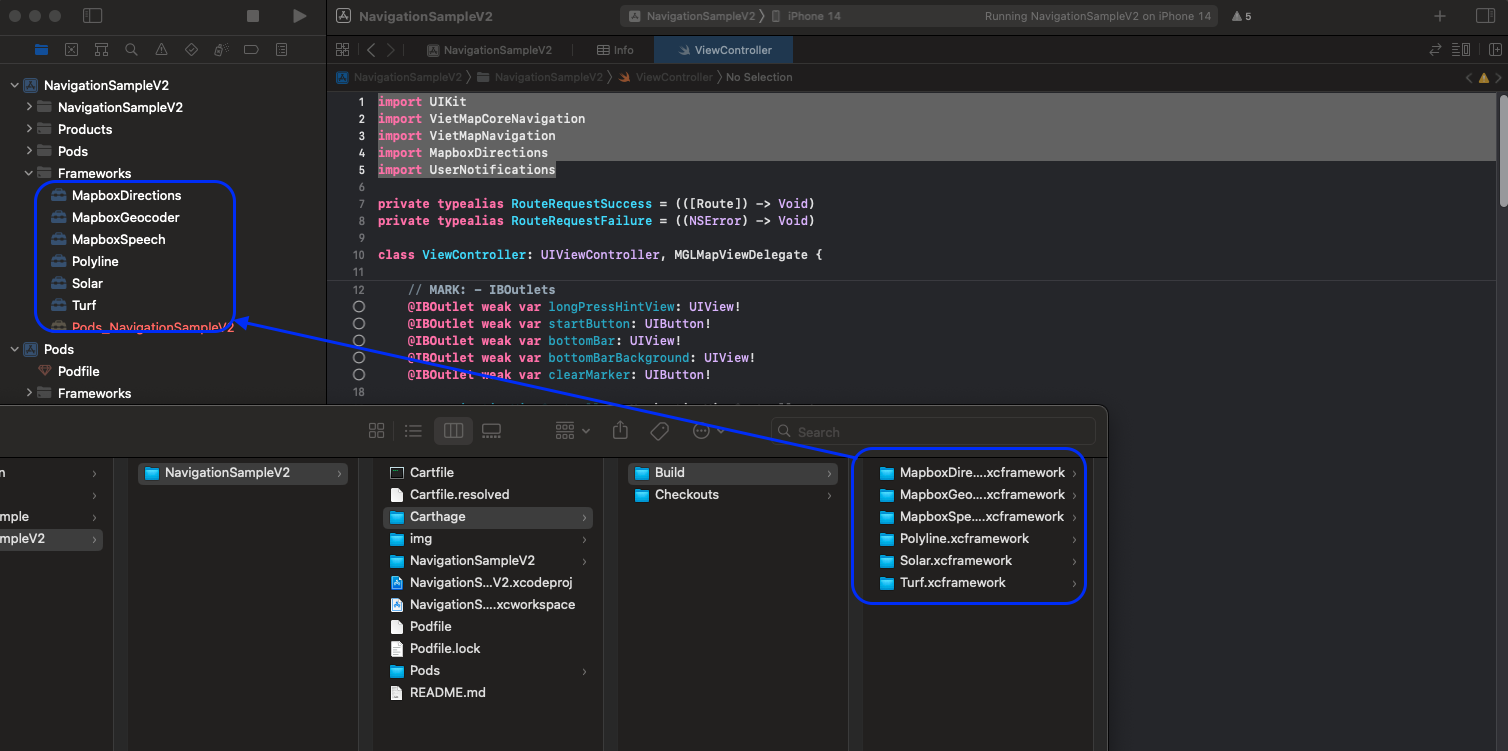
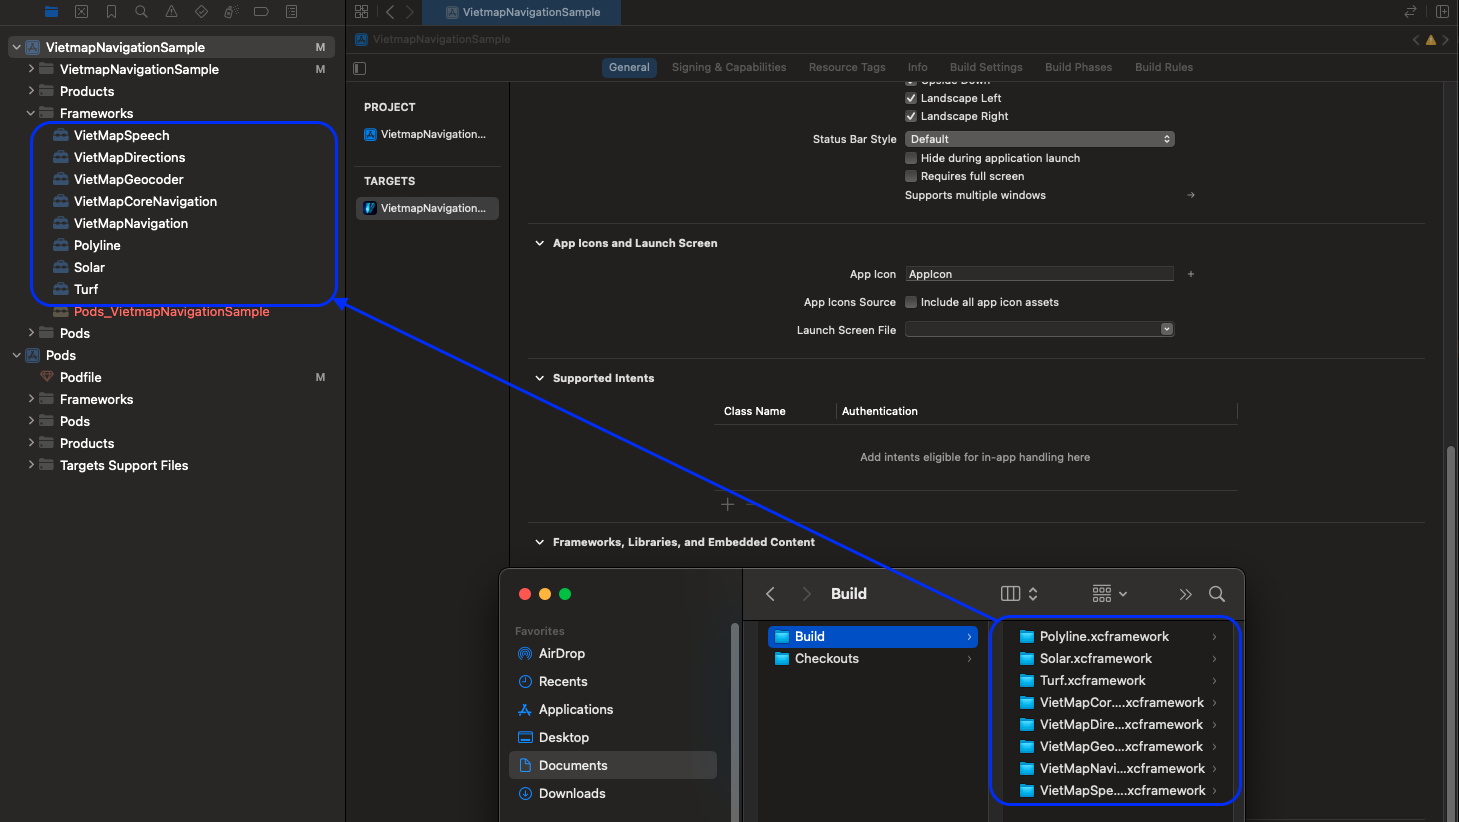
new version

diff --git a/NavigationSampleV2/ViewController.swift b/NavigationSampleV2/ViewController.swift
@@ -1,7 +1,7 @@
 import UIKit
 import VietMapCoreNavigation
 import VietMapNavigation
-import MapboxDirections
+import VietMapDirections
 import UserNotifications
 
 private typealias RouteRequestSuccess = (([Route]) -> Void)
@@ -55,6 +55,7 @@ class ViewController: UIViewController, MGLMapViewDelegate {
     // MARK: Directions Request Handlers
 
     fileprivate lazy var defaultSuccess: RouteRequestSuccess = { [weak self] (routes) in
+        print("success")
         guard let current = routes.first else { return }
         self?.clearMarker.isEnabled = true
         self?.mapView?.removeWaypoints()
@@ -124,7 +125,6 @@ class ViewController: UIViewController, MGLMapViewDelegate {
         // Note: The destination name can be modified. The value is used in the top banner when arriving at a destination.
         let waypoint = Waypoint(coordinate: coordinates, name: "Dropped Pin #\(waypoints.endIndex + 1)")
         waypoints.append(waypoint)
-
         requestRoute()
     }
 

diff --git a/README.md b/README.md
@@ -68,11 +68,7 @@ $ chmod +x Cartfile
 Mở file Cartfile thêm 2 dòng sau và lưu lại:
 
 ```
-github "mapbox/turf-swift" ~> 0.2
-github "ceeK/Solar" ~> 2.1.0
-github "vietmap-company/maps-sdk-speech-ios" ~> 1.0.0
-github "vietmap-company/maps-sdk-geocoder-ios" ~> 1.0.0
-github "vietmap-company/maps-sdk-directions-ios" ~> 1.0.0
+github "vietmap-company/maps-sdk-navigation-ios" "2.1.0"
 ```
 
 Sau đó chạy lệnh sau:
@@ -110,8 +106,6 @@ Mở Podfile và thêm các thư viện sau:
 
 ```
 pod 'VietMap', '1.0.14'
-pod 'VietMapNavigation', '1.0.0'
-pod 'VietMapCoreNavigation', '1.0.0'
 ```
 
 Sau đó chạy lệnh:
@@ -388,7 +382,7 @@ SampleCode
 import UIKit
 import VietMapCoreNavigation
 import VietMapNavigation
-import MapboxDirections
+import VietMapDirections
 import UserNotifications
 
 private typealias RouteRequestSuccess = (([Route]) -> Void)
